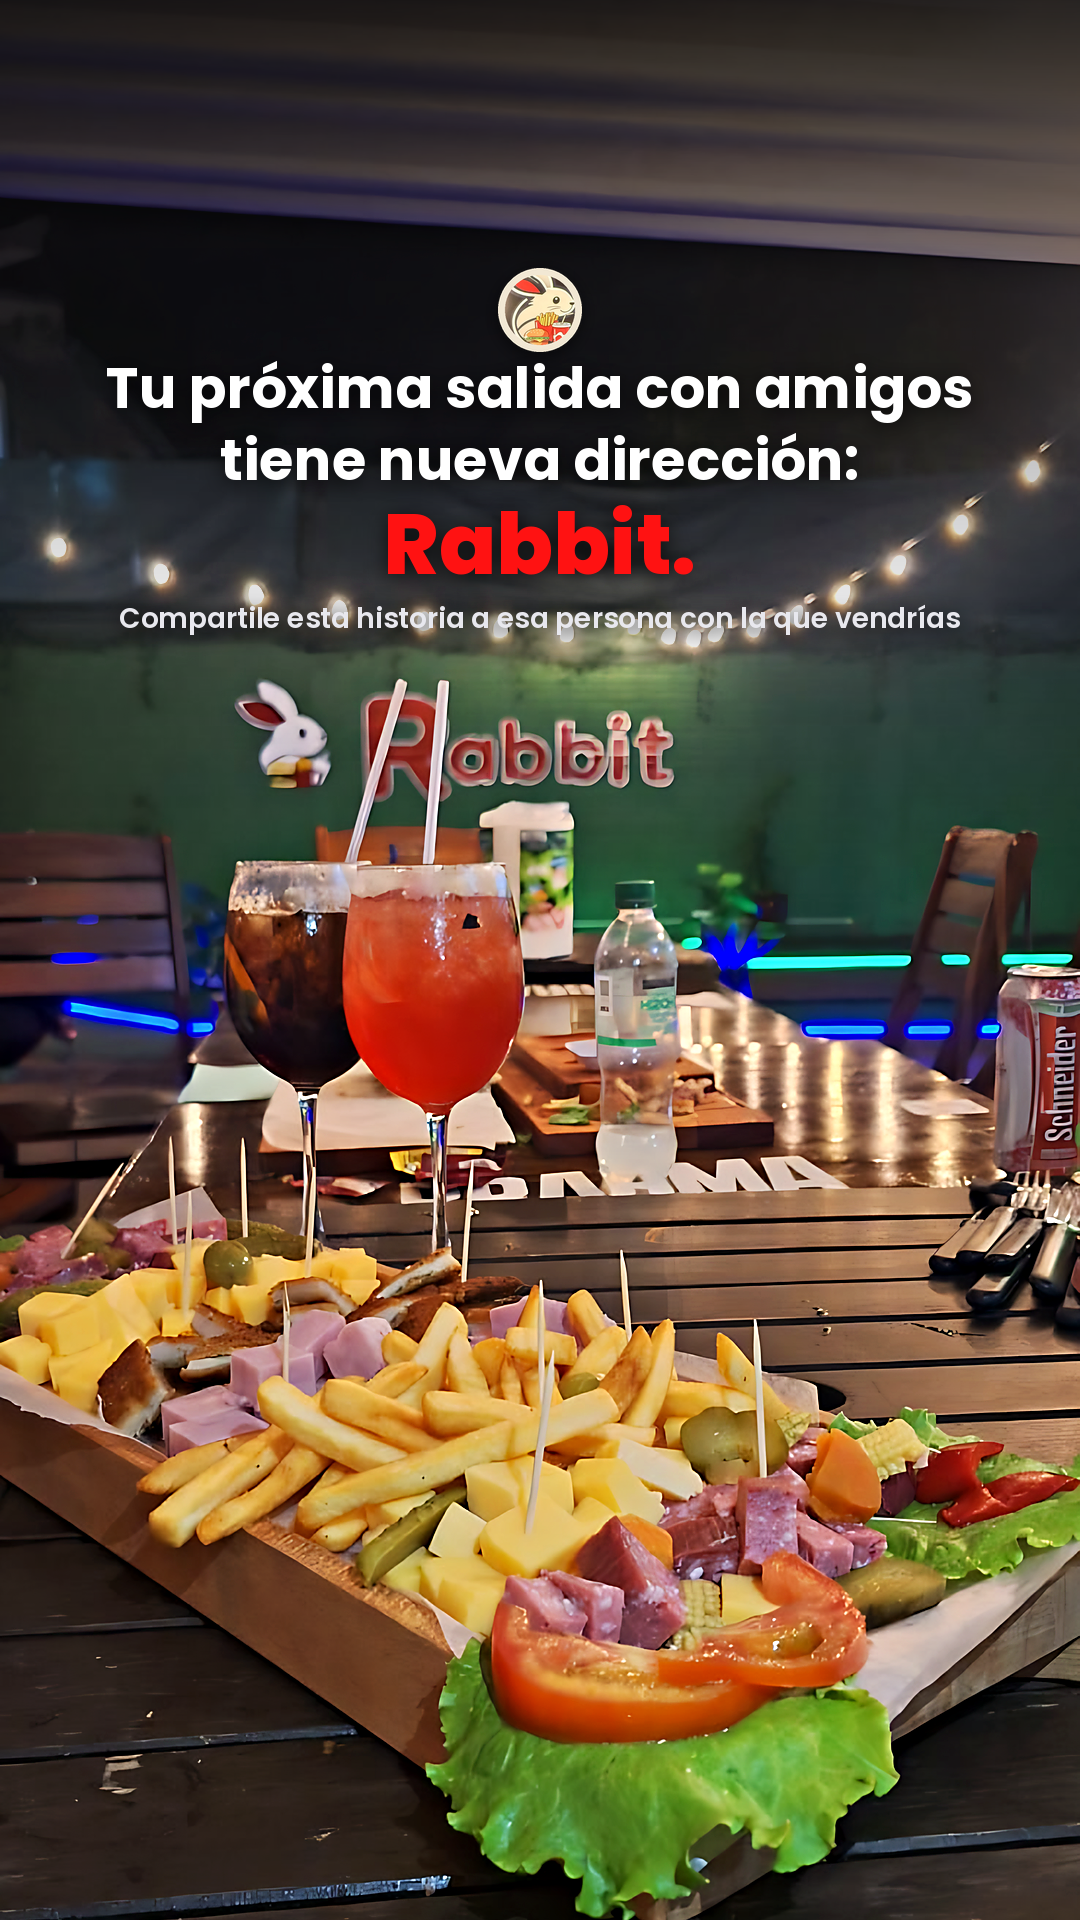
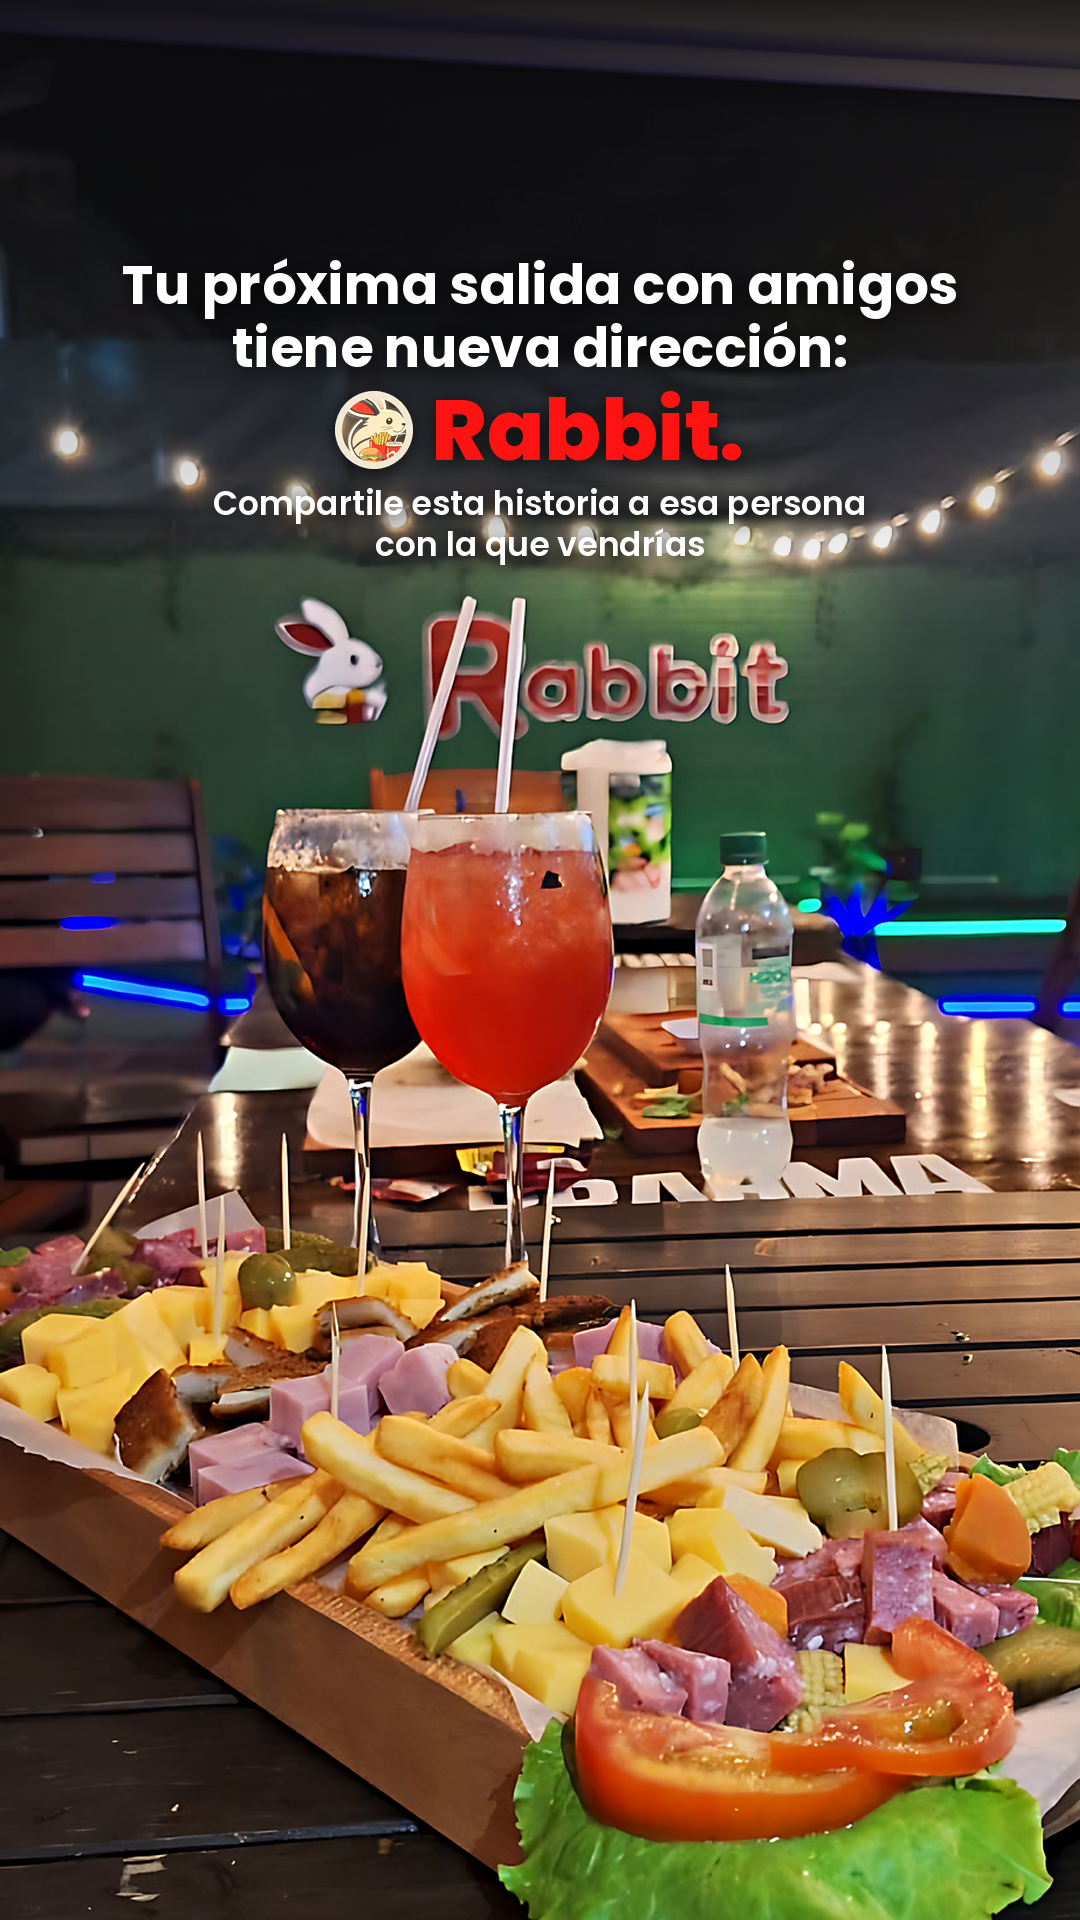
Rabbit: historia de la picada sin cubiertos y CTA más visible
Se acerca la foto (x1.17, anclada a la izquierda) para dejar afuera los
cubiertos y la lata; logo junto a 'Rabbit.' y CTA en dos líneas, más grande.

Claude-Session: https://claude.ai/code/session_01LwLBALHK691SuGhtfAj2Jn

diff --git a/rabbit/historia_picada/historia_picada.py b/rabbit/historia_picada/historia_picada.py
@@ -22,8 +22,9 @@ from flyer_proximamente import F, ROJO, degradado, insignia, sombra  # noqa: E40
 W, H = 1080, 1920
 LINEAS = ["Tu próxima salida con amigos", "tiene nueva dirección:"]
 REMATE = "Rabbit."
-CTA = "Compartile esta historia a esa persona con la que vendrías"
-Y0 = 70          # desde qué altura (en la foto escalada a 1080 de ancho) empieza el recorte
+CTA = ["Compartile esta historia a esa persona", "con la que vendrías"]
+ZOOM = 1.17      # se acerca la foto para dejar afuera los cubiertos y la lata de la derecha
+Y0 = 280         # desde qué altura (en la foto ya acercada) empieza el recorte
 MEZCLA_IA = 0.75  # peso de la ampliación con IA frente a la Lanczos (evita textura plástica)
 
 
@@ -89,21 +90,28 @@ def main():
     foto_p, modelo, emblema_p, fuentes, salida = sys.argv[1:6]
     f = F(fuentes)
     foto = mejorar(Image.open(foto_p).convert("RGB"), modelo)
-    base = foto.crop((0, Y0, W, Y0 + H)).convert("RGBA")
+    foto = foto.resize((round(foto.width * ZOOM), round(foto.height * ZOOM)), Image.LANCZOS)
+    base = foto.crop((0, Y0, W, Y0 + H)).convert("RGBA")   # anclada a la izquierda
     base.save(salida.rsplit(".", 1)[0] + "_foto.png")   # foto sola, mejorada
     img = base.copy()
-    degradado(img, 0, 760, 222, arriba=True)   # más oscuro arriba para el texto
+    degradado(img, 0, 660, 228, arriba=True)   # más oscuro arriba para el texto
 
-    ins = insignia(Image.open(emblema_p), 84)
-    img.alpha_composite(sombra(ins, 8, 160, (0, 4)), (int(W / 2 - ins.width / 2) - 24, 268 - 24))
-
-    fl = f("Bold", 56)
-    y = 388
-    for linea in LINEAS:
-        texto_centrado(img, y, linea, fl, (255, 255, 255))
-        y += 72
-    texto_centrado(img, y + 12, REMATE, f("ExtraBold", 84), ROJO + (255,))
-    texto_centrado(img, y + 86, CTA, f("SemiBold", 28), (232, 232, 238), 235)
+    fl = f("Bold", 54)
+    texto_centrado(img, 285, LINEAS[0], fl, (255, 255, 255))
+    texto_centrado(img, 348, LINEAS[1], fl, (255, 255, 255))
+    # logo chico pegado a "Rabbit."
+    fr = f("ExtraBold", 84)
+    ins = insignia(Image.open(emblema_p), 78)
+    ancho = ins.width + 18 + fr.getlength(REMATE)
+    x0 = W / 2 - ancho / 2
+    img.alpha_composite(sombra(ins, 8, 170, (0, 4)), (int(x0) - 24, 430 - ins.height // 2 - 24))
+    capa = Image.new("RGBA", img.size, (0, 0, 0, 0))
+    ImageDraw.Draw(capa).text((x0 + ins.width + 18, 430), REMATE, font=fr, fill=ROJO + (255,),
+                              anchor="lm")
+    img.alpha_composite(sombra(capa, 10, 190, (0, 4)).crop((30, 30, 30 + W, 30 + H)))
+    fc = f("SemiBold", 33)
+    texto_centrado(img, 503, CTA[0], fc, (255, 255, 255), 245)
+    texto_centrado(img, 544, CTA[1], fc, (255, 255, 255), 245)
     img.convert("RGB").save(salida)
 
 
